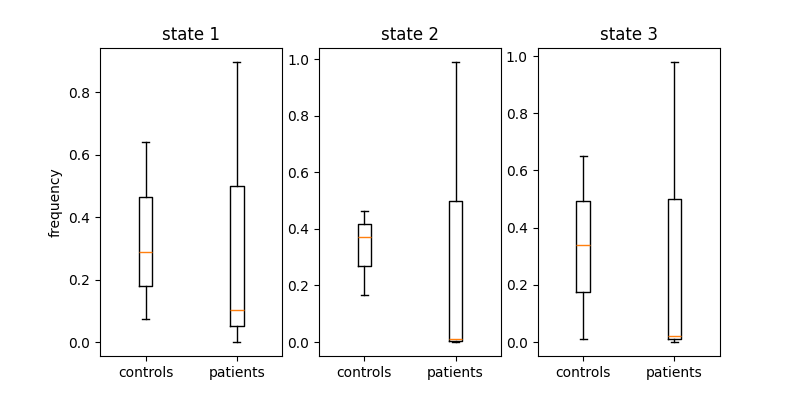
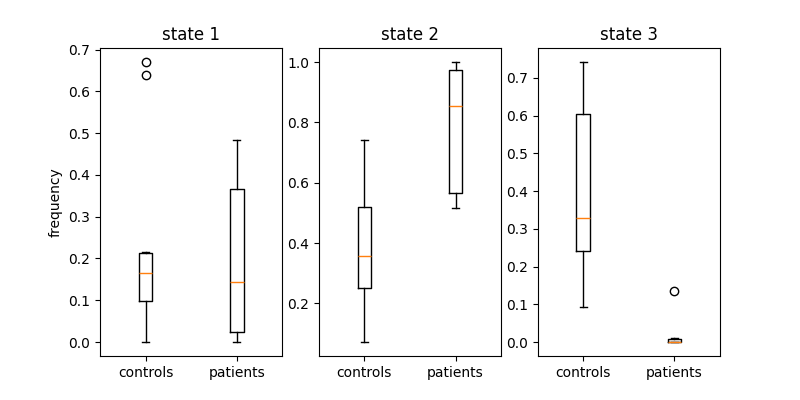
fix error in documentation

diff --git a/docs/build/html/searchindex.js b/docs/build/html/searchindex.js
@@ -1,1 +1,1 @@
-Search.setIndex({"alltitles": {"Basic Usage": [[8, "basic-usage"]], "Build the pipeline": [[8, "build-the-pipeline"]], "Code repository and Issues": [[0, null]], "Compute brain state frequencies": [[8, "compute-brain-state-frequencies"]], "Contents:": [[1, null]], "Getting Started": [[0, "getting-started"], [3, "getting-started"]], "How to Contribute": [[0, "how-to-contribute"]], "Installation": [[2, null]], "Installing in Development Mode": [[2, "installing-in-development-mode"]], "Installing via pip": [[2, "installing-via-pip"]], "Introduction": [[3, null]], "License": [[4, null]], "Load data": [[8, "load-data"]], "Module contents": [[6, "module-neurostates"], [7, "module-neurostates.core"]], "Neurostates documentation": [[1, null]], "Overview": [[8, "overview"]], "Parameters": [[7, "parameters"], [7, "id1"], [7, "id2"], [7, "id4"], [7, "id6"], [7, "id8"], [7, "id10"], [7, "id12"], [7, "id13"], [7, "id15"], [7, "id17"], [7, "id18"], [7, "id20"], [7, "id22"], [7, "id24"], [7, "id26"], [7, "id28"], [7, "id29"], [7, "id31"], [7, "id33"], [7, "id34"], [7, "id36"], [7, "id38"], [7, "id40"], [7, "id42"], [7, "id43"], [7, "id45"], [7, "id47"], [7, "id48"], [7, "id50"], [7, "id52"], [7, "id54"], [7, "id56"]], "Prerequisites": [[2, "prerequisites"]], "Reference": [[5, null]], "Returns": [[7, "returns"], [7, "id3"], [7, "id5"], [7, "id7"], [7, "id9"], [7, "id11"], [7, "id14"], [7, "id16"], [7, "id19"], [7, "id21"], [7, "id23"], [7, "id25"], [7, "id27"], [7, "id30"], [7, "id32"], [7, "id35"], [7, "id37"], [7, "id39"], [7, "id41"], [7, "id44"], [7, "id46"], [7, "id49"], [7, "id51"], [7, "id53"], [7, "id55"], [7, "id57"]], "Step-by-step Example": [[8, "step-by-step-example"]], "Submodules": [[7, "submodules"]], "Subpackages": [[6, "subpackages"]], "Usage": [[8, null]], "What You Can Do with Neurostates": [[3, "what-you-can-do-with-neurostates"]], "Why Use Neurostates?": [[3, "why-use-neurostates"]], "neurostates package": [[6, null]], "neurostates.core package": [[7, null]], "neurostates.core.classification module": [[7, "module-neurostates.core.classification"]], "neurostates.core.clustering module": [[7, "module-neurostates.core.clustering"]], "neurostates.core.connectivity module": [[7, "module-neurostates.core.connectivity"]], "neurostates.core.utils module": [[7, "module-neurostates.core.utils"]], "neurostates.core.window module": [[7, "module-neurostates.core.window"]]}, "docnames": ["contributing", "index", "installation", "introduction", "license", "modules", "neurostates", "neurostates.core", "usage"], "envversion": {"sphinx": 64, "sphinx.domains.c": 3, "sphinx.domains.changeset": 1, "sphinx.domains.citation": 1, "sphinx.domains.cpp": 9, "sphinx.domains.index": 1, "sphinx.domains.javascript": 3, "sphinx.domains.math": 2, "sphinx.domains.python": 4, "sphinx.domains.rst": 2, "sphinx.domains.std": 2}, "filenames": ["contributing.rst", "index.rst", "installation.rst", "introduction.rst", "license.rst", "modules.rst", "neurostates.rst", "neurostates.core.rst", "usage.rst"], "indexentries": {"classification() (in module neurostates.core.classification)": [[7, "neurostates.core.classification.classification", false]], "compute_frequencies() (in module neurostates.core.utils)": [[7, "neurostates.core.utils.compute_frequencies", false]], "concatenator (class in neurostates.core.clustering)": [[7, "neurostates.core.clustering.Concatenator", false]], "connectivity() (in module neurostates.core.connectivity)": [[7, "neurostates.core.connectivity.connectivity", false]], "dynamicconnectivity (class in neurostates.core.connectivity)": [[7, "neurostates.core.connectivity.DynamicConnectivity", false]], "dynamicconnectivitygroup (class in neurostates.core.connectivity)": [[7, "neurostates.core.connectivity.DynamicConnectivityGroup", false]], "fit() (neurostates.core.classification.frequencies method)": [[7, "neurostates.core.classification.Frequencies.fit", false]], "fit() (neurostates.core.clustering.concatenator method)": [[7, "neurostates.core.clustering.Concatenator.fit", false]], "fit() (neurostates.core.connectivity.dynamicconnectivity method)": [[7, "neurostates.core.connectivity.DynamicConnectivity.fit", false]], "fit() (neurostates.core.connectivity.dynamicconnectivitygroup method)": [[7, "neurostates.core.connectivity.DynamicConnectivityGroup.fit", false]], "fit() (neurostates.core.window.sampleswindower method)": [[7, "neurostates.core.window.SamplesWindower.fit", false]], "fit() (neurostates.core.window.sampleswindowergroup method)": [[7, "neurostates.core.window.SamplesWindowerGroup.fit", false]], "fit() (neurostates.core.window.secondswindower method)": [[7, "neurostates.core.window.SecondsWindower.fit", false]], "fit() (neurostates.core.window.secondswindowergroup method)": [[7, "neurostates.core.window.SecondsWindowerGroup.fit", false]], "frequencies (class in neurostates.core.classification)": [[7, "neurostates.core.classification.Frequencies", false]], "module": [[6, "module-neurostates", false], [7, "module-neurostates.core", false], [7, "module-neurostates.core.classification", false], [7, "module-neurostates.core.clustering", false], [7, "module-neurostates.core.connectivity", false], [7, "module-neurostates.core.utils", false], [7, "module-neurostates.core.window", false]], "neurostates": [[6, "module-neurostates", false]], "neurostates.core": [[7, "module-neurostates.core", false]], "neurostates.core.classification": [[7, "module-neurostates.core.classification", false]], "neurostates.core.clustering": [[7, "module-neurostates.core.clustering", false]], "neurostates.core.connectivity": [[7, "module-neurostates.core.connectivity", false]], "neurostates.core.utils": [[7, "module-neurostates.core.utils", false]], "neurostates.core.window": [[7, "module-neurostates.core.window", false]], "sampleswindower (class in neurostates.core.window)": [[7, "neurostates.core.window.SamplesWindower", false]], "sampleswindowergroup (class in neurostates.core.window)": [[7, "neurostates.core.window.SamplesWindowerGroup", false]], "secondswindower (class in neurostates.core.window)": [[7, "neurostates.core.window.SecondsWindower", false]], "secondswindowergroup (class in neurostates.core.window)": [[7, "neurostates.core.window.SecondsWindowerGroup", false]], "set_fit_request() (neurostates.core.connectivity.dynamicconnectivitygroup method)": [[7, "neurostates.core.connectivity.DynamicConnectivityGroup.set_fit_request", false]], "set_fit_request() (neurostates.core.window.sampleswindowergroup method)": [[7, "neurostates.core.window.SamplesWindowerGroup.set_fit_request", false]], "set_fit_request() (neurostates.core.window.secondswindowergroup method)": [[7, "neurostates.core.window.SecondsWindowerGroup.set_fit_request", false]], "set_transform_request() (neurostates.core.connectivity.dynamicconnectivitygroup method)": [[7, "neurostates.core.connectivity.DynamicConnectivityGroup.set_transform_request", false]], "set_transform_request() (neurostates.core.window.sampleswindowergroup method)": [[7, "neurostates.core.window.SamplesWindowerGroup.set_transform_request", false]], "set_transform_request() (neurostates.core.window.secondswindowergroup method)": [[7, "neurostates.core.window.SecondsWindowerGroup.set_transform_request", false]], "sort_centroids_by_entropy() (in module neurostates.core.clustering)": [[7, "neurostates.core.clustering.sort_centroids_by_entropy", false]], "transform() (neurostates.core.classification.frequencies method)": [[7, "neurostates.core.classification.Frequencies.transform", false]], "transform() (neurostates.core.clustering.concatenator method)": [[7, "neurostates.core.clustering.Concatenator.transform", false]], "transform() (neurostates.core.connectivity.dynamicconnectivity method)": [[7, "neurostates.core.connectivity.DynamicConnectivity.transform", false]], "transform() (neurostates.core.connectivity.dynamicconnectivitygroup method)": [[7, "neurostates.core.connectivity.DynamicConnectivityGroup.transform", false]], "transform() (neurostates.core.window.sampleswindower method)": [[7, "neurostates.core.window.SamplesWindower.transform", false]], "transform() (neurostates.core.window.sampleswindowergroup method)": [[7, "neurostates.core.window.SamplesWindowerGroup.transform", false]], "transform() (neurostates.core.window.secondswindower method)": [[7, "neurostates.core.window.SecondsWindower.transform", false]], "transform() (neurostates.core.window.secondswindowergroup method)": [[7, "neurostates.core.window.SecondsWindowerGroup.transform", false]], "validate_data_array() (in module neurostates.core.utils)": [[7, "neurostates.core.utils.validate_data_array", false]], "validate_groups_dict() (in module neurostates.core.utils)": [[7, "neurostates.core.utils.validate_groups_dict", false]], "window() (in module neurostates.core.window)": [[7, "neurostates.core.window.window", false]]}, "objects": {"": [[6, 0, 0, "-", "neurostates"]], "neurostates": [[7, 0, 0, "-", "core"]], "neurostates.core": [[7, 0, 0, "-", "classification"], [7, 0, 0, "-", "clustering"], [7, 0, 0, "-", "connectivity"], [7, 0, 0, "-", "utils"], [7, 0, 0, "-", "window"]], "neurostates.core.classification": [[7, 1, 1, "", "Frequencies"], [7, 3, 1, "", "classification"]], "neurostates.core.classification.Frequencies": [[7, 2, 1, "", "fit"], [7, 2, 1, "", "transform"]], "neurostates.core.clustering": [[7, 1, 1, "", "Concatenator"], [7, 3, 1, "", "sort_centroids_by_entropy"]], "neurostates.core.clustering.Concatenator": [[7, 2, 1, "", "fit"], [7, 2, 1, "", "transform"]], "neurostates.core.connectivity": [[7, 1, 1, "", "DynamicConnectivity"], [7, 1, 1, "", "DynamicConnectivityGroup"], [7, 3, 1, "", "connectivity"]], "neurostates.core.connectivity.DynamicConnectivity": [[7, 2, 1, "", "fit"], [7, 2, 1, "", "transform"]], "neurostates.core.connectivity.DynamicConnectivityGroup": [[7, 2, 1, "", "fit"], [7, 2, 1, "", "set_fit_request"], [7, 2, 1, "", "set_transform_request"], [7, 2, 1, "", "transform"]], "neurostates.core.utils": [[7, 3, 1, "", "compute_frequencies"], [7, 3, 1, "", "validate_data_array"], [7, 3, 1, "", "validate_groups_dict"]], "neurostates.core.window": [[7, 1, 1, "", "SamplesWindower"], [7, 1, 1, "", "SamplesWindowerGroup"], [7, 1, 1, "", "SecondsWindower"], [7, 1, 1, "", "SecondsWindowerGroup"], [7, 3, 1, "", "window"]], "neurostates.core.window.SamplesWindower": [[7, 2, 1, "", "fit"], [7, 2, 1, "", "transform"]], "neurostates.core.window.SamplesWindowerGroup": [[7, 2, 1, "", "fit"], [7, 2, 1, "", "set_fit_request"], [7, 2, 1, "", "set_transform_request"], [7, 2, 1, "", "transform"]], "neurostates.core.window.SecondsWindower": [[7, 2, 1, "", "fit"], [7, 2, 1, "", "transform"]], "neurostates.core.window.SecondsWindowerGroup": [[7, 2, 1, "", "fit"], [7, 2, 1, "", "set_fit_request"], [7, 2, 1, "", "set_transform_request"], [7, 2, 1, "", "transform"]]}, "objnames": {"0": ["py", "module", "Python module"], "1": ["py", "class", "Python class"], "2": ["py", "method", "Python method"], "3": ["py", "function", "Python function"]}, "objtypes": {"0": "py:module", "1": "py:class", "2": "py:method", "3": "py:function"}, "terms": {"": [0, 2, 4, 7, 8], "0": 8, "1": [7, 8], "10": 8, "2": 8, "20": 8, "3": [2, 4, 7, 8], "4": 8, "42": 8, "5": 8, "500": 8, "8": 8, "8100": 8, "9": 2, "90": 8, "97": 8, "A": [2, 7, 8], "And": 8, "For": 7, "If": [0, 2, 3, 8], "In": 8, "It": [3, 7, 8], "No": 7, "One": 8, "The": [2, 3, 4, 7, 8], "Then": 8, "There": 0, "These": 7, "To": [2, 3, 8], "access": [3, 8], "account": 0, "across": 8, "activ": [2, 8], "ad": [0, 7], "after": 7, "aim": 3, "algorithm": 3, "algortithm": 7, "alia": 7, "all": 8, "allow": [2, 3, 4, 7], "also": [1, 3, 7, 8], "an": [0, 2, 3, 7], "analysi": [3, 8], "analyz": 6, "ani": [0, 3, 4], "approach": 8, "ar": [0, 4, 7], "argument": 7, "arrai": 7, "assign": 7, "awai": 3, "ax": 8, "back": 8, "base": [3, 7], "baseestim": 7, "basi": 7, "basic": 1, "befor": 2, "below": [0, 8], "better": 0, "between": 7, "bool": 7, "both": 3, "boxplot": 8, "brain": [1, 3], "brain_stat": 8, "brain_state_pipelin": 8, "bsd": 4, "bug": 0, "calcul": 7, "callabl": 7, "can": [0, 1, 2, 7, 8], "case": 7, "cd": 0, "cdit": 7, "centroid": [7, 8], "chang": [0, 2, 7], "character": 8, "check": 3, "class": 7, "classif": [5, 6, 8], "classifi": 7, "claus": 4, "clone": 0, "cluster": [3, 5, 6, 8], "cluster_centers_": [7, 8], "clustering_kwarg": 7, "code": 1, "com": [0, 3], "come": 7, "command": 2, "common": [3, 7, 8], "commonli": 3, "compar": [7, 8], "comput": [3, 7], "compute_frequ": [6, 7], "concaten": [6, 7, 8], "condit": 7, "connect": [1, 3, 5, 6, 8], "connectivity_data": 7, "connectivity_matric": 8, "conscious": 3, "construct": 3, "contain": 7, "content": 5, "contribut": [1, 2], "control": 8, "copi": 0, "copyright": 4, "core": [5, 6, 8], "corrcoef": 7, "correl": 7, "correspond": 7, "cosin": [3, 8], "cosine_similar": 7, "creat": 0, "custom": [3, 8], "d": [0, 2], "data": [3, 7], "data_arrai": 7, "data_array_raw": 7, "data_concaten": 7, "decreas": 7, "default": [3, 7], "dellabellagabriel": [0, 3], "design": 3, "detect": [1, 3], "develop": 1, "dict": 7, "dict_kei": 8, "dict_of_group": 7, "dict_of_groups_": 8, "dictionari": 7, "differ": [3, 7, 8], "disclaim": 4, "distanc": 7, "distribut": 3, "do": 1, "document": [0, 3, 7], "doe": 7, "don": 2, "download": 2, "dynam": [3, 7, 8], "dynamicconnect": [6, 7], "dynamicconnectivitygroup": [6, 7, 8], "e": [2, 3, 7, 8], "each": [3, 7, 8], "easi": 3, "easiest": 2, "edit": 2, "eeg": [1, 3, 8], "effect": [2, 7], "electroencephalographi": 3, "element": 7, "email": 3, "enabl": 3, "enable_metadata_rout": 7, "enhanc": 0, "ensur": 0, "entropi": [3, 7], "environ": 2, "error": 7, "estim": [1, 3, 7, 8], "euclidean": 7, "evalu": 8, "even": 8, "exampl": [1, 3], "excit": 0, "exist": 7, "extract": 8, "f": 8, "fals": 7, "featur": [0, 3, 7], "feel": 3, "fig": 8, "figsiz": 8, "final": 8, "find": 0, "first": 2, "fit": [6, 7], "fit_transform": 8, "fix": 0, "flexibl": 3, "float": 7, "fmri": [1, 3, 6, 8], "follow": [0, 2, 3, 8], "fork": 0, "framework": 3, "free": 3, "freq": [7, 8], "frequenc": [6, 7], "from": [2, 3, 7, 8], "function": [1, 3, 6, 7, 8], "further": 8, "g": [3, 7, 8], "get": [1, 8], "git": 0, "github": [0, 3], "given": 7, "gmail": 3, "group": [7, 8], "group_control": 8, "group_freq": 7, "group_label": 7, "group_pati": 8, "groups_dict": 7, "guid": [3, 7], "guidelin": 0, "ha": [7, 8], "have": [0, 2, 3, 7], "healthi": 8, "help": 0, "highli": 3, "hold": 7, "how": [1, 3, 7, 8], "http": [0, 2], "hz": 7, "i": [1, 2, 3, 4, 6, 7, 8], "idea": 0, "identifi": 3, "ignor": 7, "imag": 3, "implement": 8, "import": 8, "improv": 0, "imshow": 8, "includ": 8, "index": 2, "ineeg": 6, "input": [7, 8], "insid": 7, "instal": [1, 3], "instead": 7, "instruct": [2, 8], "int": 7, "interest": 0, "interfac": 7, "intermedi": [3, 8], "introduct": 1, "involv": 8, "io": 8, "issu": [1, 3], "its": 4, "k": [3, 7], "kei": [7, 8], "keyword": 7, "kmean": 8, "know": [0, 8], "known": 1, "label": 7, "later": 2, "learn": [3, 7, 8], "length": [7, 8], "let": 0, "leverag": 3, "librari": 8, "licens": 1, "like": [0, 2, 7, 8], "line": 0, "list": [7, 8], "literatur": 3, "loadmat": 8, "local": 0, "long": 4, "look": 8, "machin": 0, "magnet": 3, "maintain": 4, "make": [0, 2, 8], "mani": 0, "matplotlib": 8, "matric": [3, 7, 8], "matrix": [7, 8], "mean": [3, 7], "measur": 7, "mechan": 7, "meta": 7, "metadata": 7, "metadata_rout": 7, "method": [3, 7, 8], "metric": [3, 7, 8], "minim": 7, "miss": 0, "mode": 1, "modul": [3, 5, 8], "more": 8, "most": [3, 8], "must": [7, 8], "n": 7, "n_centroid": 7, "n_cluster": [7, 8], "n_featur": 7, "n_roi": 7, "n_sampl": 7, "n_subject": 7, "n_window": 7, "name": 7, "nan": 7, "natirodriguez114": 3, "ndarrai": 7, "ndim": 7, "nearest": 7, "necessari": 8, "need": [0, 3], "neuroimag": [3, 7], "neurosci": 8, "neurost": [0, 2, 4, 5, 8], "new": 0, "next": 3, "none": 7, "note": 7, "notic": 4, "np": [7, 8], "number": 7, "numer": 7, "numpi": [7, 8], "object": 7, "occur": 8, "occurr": [1, 3], "offici": 2, "often": [7, 8], "onc": 0, "one": 3, "onli": 7, "oper": 7, "option": [2, 7], "order": 7, "org": 2, "origin": [7, 8], "other": [3, 7], "otherwis": 7, "our": [3, 8], "out": [3, 8], "outlin": 0, "output": 7, "over": [7, 8], "overview": 1, "own": 8, "packag": [1, 2, 3, 5, 8], "page": 8, "paramet": 8, "pass": 7, "path": 8, "patient": 8, "pattern": [1, 3, 6, 8], "pearson": [3, 7, 8], "per": 7, "perform": 7, "pip": 1, "pipelin": [3, 7], "pleas": [0, 7, 8], "plot": 8, "plt": 8, "power": 8, "practic": 0, "preclust": 8, "preprocess": 3, "prerequisit": 1, "previous": 7, "print": 8, "probabl": [1, 3], "procedur": 7, "process": [3, 7], "project": [0, 2, 3], "provid": [3, 7, 8], "pull": 0, "purpos": 4, "pypi": 2, "pyplot": 8, "python": [1, 2, 3], "question": 3, "quickli": 3, "r": [3, 8], "rais": 7, "random_st": 8, "rank": 3, "rate": 7, "re": [0, 2], "recommend": 2, "recurr": [1, 3], "redistribut": 4, "refer": [1, 3], "region": [7, 8], "reinstal": 2, "rel": 7, "relat": 7, "relev": 7, "repo": 0, "report": 0, "repositori": 1, "repres": 7, "request": [0, 7], "requir": [7, 8], "research": [3, 8], "reshap": 8, "reson": 3, "result": [3, 7, 8], "retain": 7, "rout": 7, "run": 2, "sampl": 7, "sample_r": [7, 8], "sampleswindow": [6, 7], "sampleswindowergroup": [6, 7], "scikit": [3, 7, 8], "scipi": [7, 8], "seamless": 3, "second": 7, "secondswindow": [6, 7], "secondswindowergroup": [6, 7, 8], "section": [0, 8], "see": 7, "segment": 8, "self": 7, "seri": 8, "set": 3, "set_config": 7, "set_fit_request": [6, 7], "set_titl": 8, "set_transform_request": [6, 7], "set_xlabel": 8, "set_ylabel": 8, "setup": [3, 8], "shape": [7, 8], "should": 7, "show": 8, "similar": [3, 8], "simpli": 2, "sio": 8, "size": [7, 8], "sklearn": [7, 8], "slide": [7, 8], "so": 8, "some": 7, "sort": 7, "sort_centroids_by_entropi": [6, 7], "spearman": [3, 8], "spearmanr": 7, "specif": 3, "standard": 3, "start": [1, 8], "state": [1, 3], "step": [0, 1, 3, 7], "str": 7, "straight": 3, "structur": [7, 8], "sub": 7, "subject": [3, 7, 8], "subjet": 7, "submit": 0, "submodul": [5, 6], "subpackag": 5, "subplot": 8, "suggest": 0, "suit": 3, "support": 3, "sure": 2, "t": [2, 8], "take": [2, 7, 8], "taper": 7, "tapering_funct": 7, "target": 7, "them": [0, 2, 7, 8], "thi": [0, 2, 4, 7, 8], "through": [2, 3, 8], "tick_label": 8, "time": [7, 8], "timeseri": [7, 8], "tool": [3, 6], "transform": [6, 7, 8], "transformermixin": 7, "true": 7, "tupl": 7, "two": [7, 8], "typo": 0, "u": [0, 3], "unchang": 7, "uncov": 8, "under": [0, 4], "unit": 7, "unlimit": 4, "updat": 7, "us": [1, 2, 7, 8], "usag": 1, "user": [3, 7], "usual": 7, "util": [5, 6], "valid": 7, "validate_data_arrai": [6, 7], "validate_groups_dict": [6, 7], "valu": 7, "ve": 0, "version": 7, "via": 1, "virtual": 2, "vmax": 8, "vmin": 8, "wai": [0, 2], "walk": 8, "want": 8, "warranti": 4, "we": [0, 8], "websit": 2, "welcom": [0, 3], "what": 1, "where": 8, "whether": 0, "which": 7, "while": 3, "why": 1, "window": [5, 6, 8], "windowed_data": 7, "windowed_data_raw": 7, "without": 2, "work": 7, "write": 3, "www": 2, "x": [7, 8], "y": 7, "you": [0, 1, 2, 7, 8], "your": [0, 8]}, "titles": ["Code repository and Issues", "Neurostates documentation", "Installation", "Introduction", "License", "Reference", "neurostates package", "neurostates.core package", "Usage"], "titleterms": {"basic": 8, "brain": 8, "build": 8, "can": 3, "classif": 7, "cluster": 7, "code": 0, "comput": 8, "connect": 7, "content": [1, 6, 7], "contribut": 0, "core": 7, "data": 8, "develop": 2, "do": 3, "document": 1, "exampl": 8, "frequenc": 8, "get": [0, 3], "how": 0, "instal": 2, "introduct": 3, "issu": 0, "licens": 4, "load": 8, "mode": 2, "modul": [6, 7], "neurost": [1, 3, 6, 7], "overview": 8, "packag": [6, 7], "paramet": 7, "pip": 2, "pipelin": 8, "prerequisit": 2, "refer": 5, "repositori": 0, "return": 7, "start": [0, 3], "state": 8, "step": 8, "submodul": 7, "subpackag": 6, "us": 3, "usag": 8, "util": 7, "via": 2, "what": 3, "why": 3, "window": 7, "you": 3}})
+Search.setIndex({"alltitles": {"Basic Usage": [[8, "basic-usage"]], "Build the pipeline": [[8, "build-the-pipeline"]], "Code repository and Issues": [[0, null]], "Compute brain state frequencies": [[8, "compute-brain-state-frequencies"]], "Contents:": [[1, null]], "Getting Started": [[0, "getting-started"], [3, "getting-started"]], "How to Contribute": [[0, "how-to-contribute"]], "Installation": [[2, null]], "Installing in Development Mode": [[2, "installing-in-development-mode"]], "Installing via pip": [[2, "installing-via-pip"]], "Introduction": [[3, null]], "License": [[4, null]], "Load data": [[8, "load-data"]], "Module contents": [[6, "module-neurostates"], [7, "module-neurostates.core"]], "Neurostates documentation": [[1, null]], "Overview": [[8, "overview"]], "Parameters": [[7, "parameters"], [7, "id1"], [7, "id2"], [7, "id4"], [7, "id6"], [7, "id8"], [7, "id10"], [7, "id12"], [7, "id13"], [7, "id15"], [7, "id17"], [7, "id18"], [7, "id20"], [7, "id22"], [7, "id24"], [7, "id26"], [7, "id28"], [7, "id29"], [7, "id31"], [7, "id33"], [7, "id34"], [7, "id36"], [7, "id38"], [7, "id40"], [7, "id42"], [7, "id43"], [7, "id45"], [7, "id47"], [7, "id48"], [7, "id50"], [7, "id52"], [7, "id54"], [7, "id56"]], "Prerequisites": [[2, "prerequisites"]], "Reference": [[5, null]], "Returns": [[7, "returns"], [7, "id3"], [7, "id5"], [7, "id7"], [7, "id9"], [7, "id11"], [7, "id14"], [7, "id16"], [7, "id19"], [7, "id21"], [7, "id23"], [7, "id25"], [7, "id27"], [7, "id30"], [7, "id32"], [7, "id35"], [7, "id37"], [7, "id39"], [7, "id41"], [7, "id44"], [7, "id46"], [7, "id49"], [7, "id51"], [7, "id53"], [7, "id55"], [7, "id57"]], "Step-by-step Example": [[8, "step-by-step-example"]], "Submodules": [[7, "submodules"]], "Subpackages": [[6, "subpackages"]], "Usage": [[8, null]], "What You Can Do with Neurostates": [[3, "what-you-can-do-with-neurostates"]], "Why Use Neurostates?": [[3, "why-use-neurostates"]], "neurostates package": [[6, null]], "neurostates.core package": [[7, null]], "neurostates.core.classification module": [[7, "module-neurostates.core.classification"]], "neurostates.core.clustering module": [[7, "module-neurostates.core.clustering"]], "neurostates.core.connectivity module": [[7, "module-neurostates.core.connectivity"]], "neurostates.core.utils module": [[7, "module-neurostates.core.utils"]], "neurostates.core.window module": [[7, "module-neurostates.core.window"]]}, "docnames": ["contributing", "index", "installation", "introduction", "license", "modules", "neurostates", "neurostates.core", "usage"], "envversion": {"sphinx": 64, "sphinx.domains.c": 3, "sphinx.domains.changeset": 1, "sphinx.domains.citation": 1, "sphinx.domains.cpp": 9, "sphinx.domains.index": 1, "sphinx.domains.javascript": 3, "sphinx.domains.math": 2, "sphinx.domains.python": 4, "sphinx.domains.rst": 2, "sphinx.domains.std": 2}, "filenames": ["contributing.rst", "index.rst", "installation.rst", "introduction.rst", "license.rst", "modules.rst", "neurostates.rst", "neurostates.core.rst", "usage.rst"], "indexentries": {}, "objects": {"": [[6, 0, 0, "-", "neurostates"]], "neurostates": [[7, 0, 0, "-", "core"]], "neurostates.core": [[7, 0, 0, "-", "classification"], [7, 0, 0, "-", "clustering"], [7, 0, 0, "-", "connectivity"], [7, 0, 0, "-", "utils"], [7, 0, 0, "-", "window"]], "neurostates.core.classification": [[7, 1, 1, "", "Frequencies"], [7, 3, 1, "", "classification"]], "neurostates.core.classification.Frequencies": [[7, 2, 1, "", "fit"], [7, 2, 1, "", "transform"]], "neurostates.core.clustering": [[7, 1, 1, "", "Concatenator"], [7, 3, 1, "", "sort_centroids_by_entropy"]], "neurostates.core.clustering.Concatenator": [[7, 2, 1, "", "fit"], [7, 2, 1, "", "transform"]], "neurostates.core.connectivity": [[7, 1, 1, "", "DynamicConnectivity"], [7, 1, 1, "", "DynamicConnectivityGroup"], [7, 3, 1, "", "connectivity"]], "neurostates.core.connectivity.DynamicConnectivity": [[7, 2, 1, "", "fit"], [7, 2, 1, "", "transform"]], "neurostates.core.connectivity.DynamicConnectivityGroup": [[7, 2, 1, "", "fit"], [7, 2, 1, "", "set_fit_request"], [7, 2, 1, "", "set_transform_request"], [7, 2, 1, "", "transform"]], "neurostates.core.utils": [[7, 3, 1, "", "compute_frequencies"], [7, 3, 1, "", "validate_data_array"], [7, 3, 1, "", "validate_groups_dict"]], "neurostates.core.window": [[7, 1, 1, "", "SamplesWindower"], [7, 1, 1, "", "SamplesWindowerGroup"], [7, 1, 1, "", "SecondsWindower"], [7, 1, 1, "", "SecondsWindowerGroup"], [7, 3, 1, "", "window"]], "neurostates.core.window.SamplesWindower": [[7, 2, 1, "", "fit"], [7, 2, 1, "", "transform"]], "neurostates.core.window.SamplesWindowerGroup": [[7, 2, 1, "", "fit"], [7, 2, 1, "", "set_fit_request"], [7, 2, 1, "", "set_transform_request"], [7, 2, 1, "", "transform"]], "neurostates.core.window.SecondsWindower": [[7, 2, 1, "", "fit"], [7, 2, 1, "", "transform"]], "neurostates.core.window.SecondsWindowerGroup": [[7, 2, 1, "", "fit"], [7, 2, 1, "", "set_fit_request"], [7, 2, 1, "", "set_transform_request"], [7, 2, 1, "", "transform"]]}, "objnames": {"0": ["py", "module", "Python module"], "1": ["py", "class", "Python class"], "2": ["py", "method", "Python method"], "3": ["py", "function", "Python function"]}, "objtypes": {"0": "py:module", "1": "py:class", "2": "py:method", "3": "py:function"}, "terms": {"": [0, 2, 4, 7, 8], "0": 8, "1": [7, 8], "10": 8, "2": 8, "20": 8, "3": [2, 4, 7, 8], "4": 8, "42": 8, "5": 8, "500": 8, "8": 8, "8100": 8, "9": 2, "90": 8, "97": 8, "A": [2, 7, 8], "And": 8, "For": 7, "If": [0, 2, 3, 8], "In": 8, "It": [3, 7, 8], "No": 7, "One": 8, "The": [2, 3, 4, 7, 8], "Then": 8, "There": 0, "These": 7, "To": [2, 3, 8], "access": [3, 8], "account": 0, "across": 8, "activ": [2, 8], "ad": [0, 7], "after": 7, "aim": 3, "algorithm": 3, "algortithm": 7, "alia": 7, "all": 8, "allow": [2, 3, 4, 7], "also": [1, 3, 7, 8], "an": [0, 2, 3, 7], "analysi": [3, 8], "analyz": 6, "ani": [0, 3, 4], "approach": 8, "ar": [0, 4, 7], "argument": 7, "arrai": 7, "assign": 7, "awai": 3, "ax": 8, "back": 8, "base": [3, 7], "baseestim": 7, "basi": 7, "basic": 1, "befor": 2, "below": [0, 8], "better": 0, "between": 7, "bool": 7, "both": 3, "boxplot": 8, "brain": [1, 3], "brain_stat": 8, "brain_state_pipelin": 8, "bsd": 4, "bug": 0, "calcul": 7, "callabl": 7, "can": [0, 1, 2, 7, 8], "case": 7, "cd": 0, "cdit": 7, "centroid": [7, 8], "chang": [0, 2, 7], "character": 8, "check": 3, "class": 7, "classif": [5, 6, 8], "classifi": 7, "claus": 4, "clone": 0, "cluster": [3, 5, 6, 8], "cluster_centers_": [7, 8], "clustering_kwarg": 7, "code": 1, "com": [0, 3], "come": 7, "command": 2, "common": [3, 7, 8], "commonli": 3, "compar": [7, 8], "comput": [3, 7], "compute_frequ": [6, 7], "concaten": [6, 7, 8], "condit": 7, "connect": [1, 3, 5, 6, 8], "connectivity_data": 7, "connectivity_matric": 8, "conscious": 3, "construct": 3, "contain": 7, "content": 5, "contribut": [1, 2], "control": 8, "copi": 0, "copyright": 4, "core": [5, 6, 8], "corrcoef": 7, "correl": 7, "correspond": 7, "cosin": [3, 8], "cosine_similar": 7, "creat": 0, "custom": [3, 8], "d": [0, 2], "data": [3, 7], "data_arrai": 7, "data_array_raw": 7, "data_concaten": 7, "decreas": 7, "default": [3, 7], "dellabellagabriel": [0, 3], "design": 3, "detect": [1, 3], "develop": 1, "dict": 7, "dict_kei": 8, "dict_of_group": 7, "dict_of_groups_": 8, "dictionari": 7, "differ": [3, 7, 8], "disclaim": 4, "distanc": 7, "distribut": 3, "do": 1, "document": [0, 3, 7], "doe": 7, "don": 2, "download": 2, "dynam": [3, 7, 8], "dynamicconnect": [6, 7], "dynamicconnectivitygroup": [6, 7, 8], "e": [2, 3, 7, 8], "each": [3, 7, 8], "easi": 3, "easiest": 2, "edit": 2, "eeg": [1, 3, 8], "effect": [2, 7], "electroencephalographi": 3, "element": 7, "email": 3, "enabl": 3, "enable_metadata_rout": 7, "enhanc": 0, "ensur": 0, "entropi": [3, 7], "environ": 2, "error": 7, "estim": [1, 3, 7, 8], "euclidean": 7, "evalu": 8, "even": 8, "exampl": [1, 3], "excit": 0, "exist": 7, "extract": 8, "f": 8, "fals": 7, "featur": [0, 3, 7], "feel": 3, "fig": 8, "figsiz": 8, "final": 8, "find": 0, "first": 2, "fit": [6, 7], "fit_transform": 8, "fix": 0, "flexibl": 3, "float": 7, "fmri": [1, 3, 6, 8], "follow": [0, 2, 3, 8], "fork": 0, "framework": 3, "free": 3, "freq": [7, 8], "frequenc": [6, 7], "from": [2, 3, 7, 8], "function": [1, 3, 6, 7, 8], "further": 8, "g": [3, 7, 8], "get": [1, 8], "git": 0, "github": [0, 3], "given": 7, "gmail": 3, "group": [7, 8], "group_control": 8, "group_freq": 7, "group_label": 7, "group_pati": 8, "groups_dict": 7, "guid": [3, 7], "guidelin": 0, "ha": [7, 8], "have": [0, 2, 3, 7], "healthi": 8, "help": 0, "highli": 3, "hold": 7, "how": [1, 3, 7, 8], "http": [0, 2], "hz": 7, "i": [1, 2, 3, 4, 6, 7, 8], "idea": 0, "identifi": 3, "ignor": 7, "imag": 3, "implement": 8, "import": 8, "improv": 0, "imshow": 8, "includ": 8, "index": 2, "ineeg": 6, "input": [7, 8], "insid": 7, "instal": [1, 3], "instead": 7, "instruct": [2, 8], "int": 7, "interest": 0, "interfac": 7, "intermedi": [3, 8], "introduct": 1, "involv": 8, "io": 8, "issu": [1, 3], "its": 4, "k": [3, 7], "kei": [7, 8], "keyword": 7, "kmean": 8, "know": [0, 8], "known": 1, "label": 7, "later": 2, "learn": [3, 7, 8], "length": [7, 8], "let": 0, "leverag": 3, "librari": 8, "licens": 1, "like": [0, 2, 7, 8], "line": 0, "list": [7, 8], "literatur": 3, "loadmat": 8, "local": 0, "long": 4, "look": 8, "machin": 0, "magnet": 3, "maintain": 4, "make": [0, 2, 8], "mani": 0, "matplotlib": 8, "matric": [3, 7, 8], "matrix": [7, 8], "mean": [3, 7], "measur": 7, "mechan": 7, "meta": 7, "metadata": 7, "metadata_rout": 7, "method": [3, 7, 8], "metric": [3, 7, 8], "minim": 7, "miss": 0, "mode": 1, "modul": [3, 5, 8], "more": 8, "most": [3, 8], "must": [7, 8], "n": 7, "n_centroid": 7, "n_cluster": [7, 8], "n_featur": 7, "n_roi": 7, "n_sampl": 7, "n_subject": 7, "n_window": 7, "name": 7, "nan": 7, "natirodriguez114": 3, "ndarrai": 7, "ndim": 7, "nearest": 7, "necessari": 8, "need": [0, 3], "neuroimag": [3, 7], "neurosci": 8, "neurost": [0, 2, 4, 5, 8], "new": 0, "next": 3, "none": 7, "note": 7, "notic": 4, "np": [7, 8], "number": 7, "numer": 7, "numpi": [7, 8], "object": 7, "occur": 8, "occurr": [1, 3], "offici": 2, "often": [7, 8], "onc": 0, "one": 3, "onli": 7, "oper": 7, "option": [2, 7], "order": 7, "org": 2, "origin": [7, 8], "other": [3, 7], "otherwis": 7, "our": [3, 8], "out": [3, 8], "outlin": 0, "output": 7, "over": [7, 8], "overview": 1, "own": 8, "packag": [1, 2, 3, 5, 8], "page": 8, "paramet": 8, "pass": 7, "path": 8, "patient": 8, "pattern": [1, 3, 6, 8], "pearson": [3, 7, 8], "per": 7, "perform": 7, "pip": 1, "pipelin": [3, 7], "pleas": [0, 7, 8], "plot": 8, "plt": 8, "power": 8, "practic": 0, "preclust": 8, "preprocess": 3, "prerequisit": 1, "previous": 7, "print": 8, "probabl": [1, 3], "procedur": 7, "process": [3, 7], "project": [0, 2, 3], "provid": [3, 7, 8], "pull": 0, "purpos": 4, "pypi": 2, "pyplot": 8, "python": [1, 2, 3], "question": 3, "quickli": 3, "r": [3, 8], "rais": 7, "random_st": 8, "rank": 3, "rate": 7, "re": [0, 2], "recommend": 2, "recurr": [1, 3], "redistribut": 4, "refer": [1, 3], "region": [7, 8], "reinstal": 2, "rel": 7, "relat": 7, "relev": 7, "repo": 0, "report": 0, "repositori": 1, "repres": 7, "request": [0, 7], "requir": [7, 8], "research": [3, 8], "reshap": 8, "reson": 3, "result": [3, 7, 8], "retain": 7, "rout": 7, "run": 2, "sampl": 7, "sample_r": [7, 8], "sampleswindow": [6, 7], "sampleswindowergroup": [6, 7], "scikit": [3, 7, 8], "scipi": [7, 8], "seamless": 3, "second": 7, "secondswindow": [6, 7], "secondswindowergroup": [6, 7, 8], "section": [0, 8], "see": 7, "segment": 8, "self": 7, "seri": 8, "set": 3, "set_config": 7, "set_fit_request": [6, 7], "set_titl": 8, "set_transform_request": [6, 7], "set_xlabel": 8, "set_ylabel": 8, "setup": [3, 8], "shape": [7, 8], "should": 7, "show": 8, "similar": [3, 8], "simpli": 2, "sio": 8, "size": [7, 8], "sklearn": [7, 8], "slide": [7, 8], "so": 8, "some": 7, "sort": 7, "sort_centroids_by_entropi": [6, 7], "spearman": [3, 8], "spearmanr": 7, "specif": 3, "standard": 3, "start": [1, 8], "state": [1, 3], "step": [0, 1, 3, 7], "str": 7, "straight": 3, "structur": [7, 8], "sub": 7, "subject": [3, 7, 8], "subjet": 7, "submit": 0, "submodul": [5, 6], "subpackag": 5, "subplot": 8, "suggest": 0, "suit": 3, "support": 3, "sure": 2, "t": [2, 8], "take": [2, 7, 8], "taper": 7, "tapering_funct": 7, "target": 7, "them": [0, 2, 7, 8], "thi": [0, 2, 4, 7, 8], "through": [2, 3, 8], "tick_label": 8, "time": [7, 8], "timeseri": [7, 8], "tool": [3, 6], "transform": [6, 7, 8], "transformermixin": 7, "true": 7, "tupl": 7, "two": [7, 8], "typo": 0, "u": [0, 3], "unchang": 7, "uncov": 8, "under": [0, 4], "unit": 7, "unlimit": 4, "updat": 7, "us": [1, 2, 7, 8], "usag": 1, "user": [3, 7], "usual": 7, "util": [5, 6], "valid": 7, "validate_data_arrai": [6, 7], "validate_groups_dict": [6, 7], "valu": 7, "ve": 0, "version": 7, "via": 1, "virtual": 2, "vmax": 8, "vmin": 8, "wai": [0, 2], "walk": 8, "want": 8, "warranti": 4, "we": [0, 8], "websit": 2, "welcom": [0, 3], "what": 1, "where": 8, "whether": 0, "which": 7, "while": 3, "why": 1, "window": [5, 6, 8], "windowed_data": 7, "windowed_data_raw": 7, "without": 2, "work": 7, "write": 3, "www": 2, "x": [7, 8], "y": 7, "you": [0, 1, 2, 7, 8], "your": [0, 8]}, "titles": ["Code repository and Issues", "Neurostates documentation", "Installation", "Introduction", "License", "Reference", "neurostates package", "neurostates.core package", "Usage"], "titleterms": {"basic": 8, "brain": 8, "build": 8, "can": 3, "classif": 7, "cluster": 7, "code": 0, "comput": 8, "connect": 7, "content": [1, 6, 7], "contribut": 0, "core": 7, "data": 8, "develop": 2, "do": 3, "document": 1, "exampl": 8, "frequenc": 8, "get": [0, 3], "how": 0, "instal": 2, "introduct": 3, "issu": 0, "licens": 4, "load": 8, "mode": 2, "modul": [6, 7], "neurost": [1, 3, 6, 7], "overview": 8, "packag": [6, 7], "paramet": 7, "pip": 2, "pipelin": 8, "prerequisit": 2, "refer": 5, "repositori": 0, "return": 7, "start": [0, 3], "state": 8, "step": 8, "submodul": 7, "subpackag": 6, "us": 3, "usag": 8, "util": 7, "via": 2, "what": 3, "why": 3, "window": 7, "you": 3}})

diff --git a/docs/build/html/usage.html b/docs/build/html/usage.html
@@ -175,20 +175,20 @@ Control has size (subjects, states): (10, 3)
 <p>Finally, you can plot the frequency of each brain state in the data:</p>
 <div class="highlight-python notranslate"><div class="highlight"><pre><span></span><span class="n">fig</span><span class="p">,</span> <span class="n">ax</span> <span class="o">=</span> <span class="n">plt</span><span class="o">.</span><span class="n">subplots</span><span class="p">(</span><span class="mi">1</span><span class="p">,</span> <span class="mi">3</span><span class="p">,</span> <span class="n">figsize</span><span class="o">=</span><span class="p">(</span><span class="mi">8</span><span class="p">,</span><span class="mi">4</span><span class="p">))</span>
 <span class="n">ax</span><span class="p">[</span><span class="mi">0</span><span class="p">]</span><span class="o">.</span><span class="n">boxplot</span><span class="p">(</span>
-    <span class="p">[</span><span class="n">freqs</span><span class="p">[</span><span class="s2">&quot;controls&quot;</span><span class="p">][</span><span class="mi">0</span><span class="p">],</span> <span class="n">freqs</span><span class="p">[</span><span class="s2">&quot;patients&quot;</span><span class="p">][</span><span class="mi">0</span><span class="p">]],</span>
+    <span class="p">[</span><span class="n">freqs</span><span class="p">[</span><span class="s2">&quot;controls&quot;</span><span class="p">][:,</span><span class="mi">0</span><span class="p">],</span> <span class="n">freqs</span><span class="p">[</span><span class="s2">&quot;patients&quot;</span><span class="p">][:,</span><span class="mi">0</span><span class="p">]],</span>
     <span class="n">tick_labels</span><span class="o">=</span><span class="p">[</span><span class="s2">&quot;controls&quot;</span><span class="p">,</span> <span class="s2">&quot;patients&quot;</span><span class="p">]</span>
 <span class="p">)</span>
 <span class="n">ax</span><span class="p">[</span><span class="mi">0</span><span class="p">]</span><span class="o">.</span><span class="n">set_ylabel</span><span class="p">(</span><span class="s2">&quot;frequency&quot;</span><span class="p">)</span>
 <span class="n">ax</span><span class="p">[</span><span class="mi">0</span><span class="p">]</span><span class="o">.</span><span class="n">set_title</span><span class="p">(</span><span class="s2">&quot;state 1&quot;</span><span class="p">)</span>
 
 <span class="n">ax</span><span class="p">[</span><span class="mi">1</span><span class="p">]</span><span class="o">.</span><span class="n">boxplot</span><span class="p">(</span>
-    <span class="p">[</span><span class="n">freqs</span><span class="p">[</span><span class="s2">&quot;controls&quot;</span><span class="p">][</span><span class="mi">1</span><span class="p">],</span> <span class="n">freqs</span><span class="p">[</span><span class="s2">&quot;patients&quot;</span><span class="p">][</span><span class="mi">1</span><span class="p">]],</span>
+    <span class="p">[</span><span class="n">freqs</span><span class="p">[</span><span class="s2">&quot;controls&quot;</span><span class="p">][:,</span><span class="mi">1</span><span class="p">],</span> <span class="n">freqs</span><span class="p">[</span><span class="s2">&quot;patients&quot;</span><span class="p">][:,</span><span class="mi">1</span><span class="p">]],</span>
     <span class="n">tick_labels</span><span class="o">=</span><span class="p">[</span><span class="s2">&quot;controls&quot;</span><span class="p">,</span> <span class="s2">&quot;patients&quot;</span><span class="p">]</span>
 <span class="p">)</span>
 <span class="n">ax</span><span class="p">[</span><span class="mi">1</span><span class="p">]</span><span class="o">.</span><span class="n">set_title</span><span class="p">(</span><span class="s2">&quot;state 2&quot;</span><span class="p">)</span>
 
 <span class="n">ax</span><span class="p">[</span><span class="mi">2</span><span class="p">]</span><span class="o">.</span><span class="n">boxplot</span><span class="p">(</span>
-    <span class="p">[</span><span class="n">freqs</span><span class="p">[</span><span class="s2">&quot;controls&quot;</span><span class="p">][</span><span class="mi">2</span><span class="p">],</span> <span class="n">freqs</span><span class="p">[</span><span class="s2">&quot;patients&quot;</span><span class="p">][</span><span class="mi">2</span><span class="p">]],</span>
+    <span class="p">[</span><span class="n">freqs</span><span class="p">[</span><span class="s2">&quot;controls&quot;</span><span class="p">][:,</span><span class="mi">2</span><span class="p">],</span> <span class="n">freqs</span><span class="p">[</span><span class="s2">&quot;patients&quot;</span><span class="p">][:,</span><span class="mi">2</span><span class="p">]],</span>
     <span class="n">tick_labels</span><span class="o">=</span><span class="p">[</span><span class="s2">&quot;controls&quot;</span><span class="p">,</span> <span class="s2">&quot;patients&quot;</span><span class="p">]</span>
 <span class="p">)</span>
 <span class="n">ax</span><span class="p">[</span><span class="mi">2</span><span class="p">]</span><span class="o">.</span><span class="n">set_title</span><span class="p">(</span><span class="s2">&quot;state 3&quot;</span><span class="p">)</span>

diff --git a/docs/source/usage.rst b/docs/source/usage.rst
@@ -168,20 +168,20 @@ Finally, you can plot the frequency of each brain state in the data:
 
     fig, ax = plt.subplots(1, 3, figsize=(8,4))
     ax[0].boxplot(
-        [freqs["controls"][0], freqs["patients"][0]],
+        [freqs["controls"][:,0], freqs["patients"][:,0]],
         tick_labels=["controls", "patients"]
     )
     ax[0].set_ylabel("frequency")
     ax[0].set_title("state 1")
 
     ax[1].boxplot(
-        [freqs["controls"][1], freqs["patients"][1]],
+        [freqs["controls"][:,1], freqs["patients"][:,1]],
         tick_labels=["controls", "patients"]
     )
     ax[1].set_title("state 2")
     
     ax[2].boxplot(
-        [freqs["controls"][2], freqs["patients"][2]],
+        [freqs["controls"][:,2], freqs["patients"][:,2]],
         tick_labels=["controls", "patients"]
     )
     ax[2].set_title("state 3")
